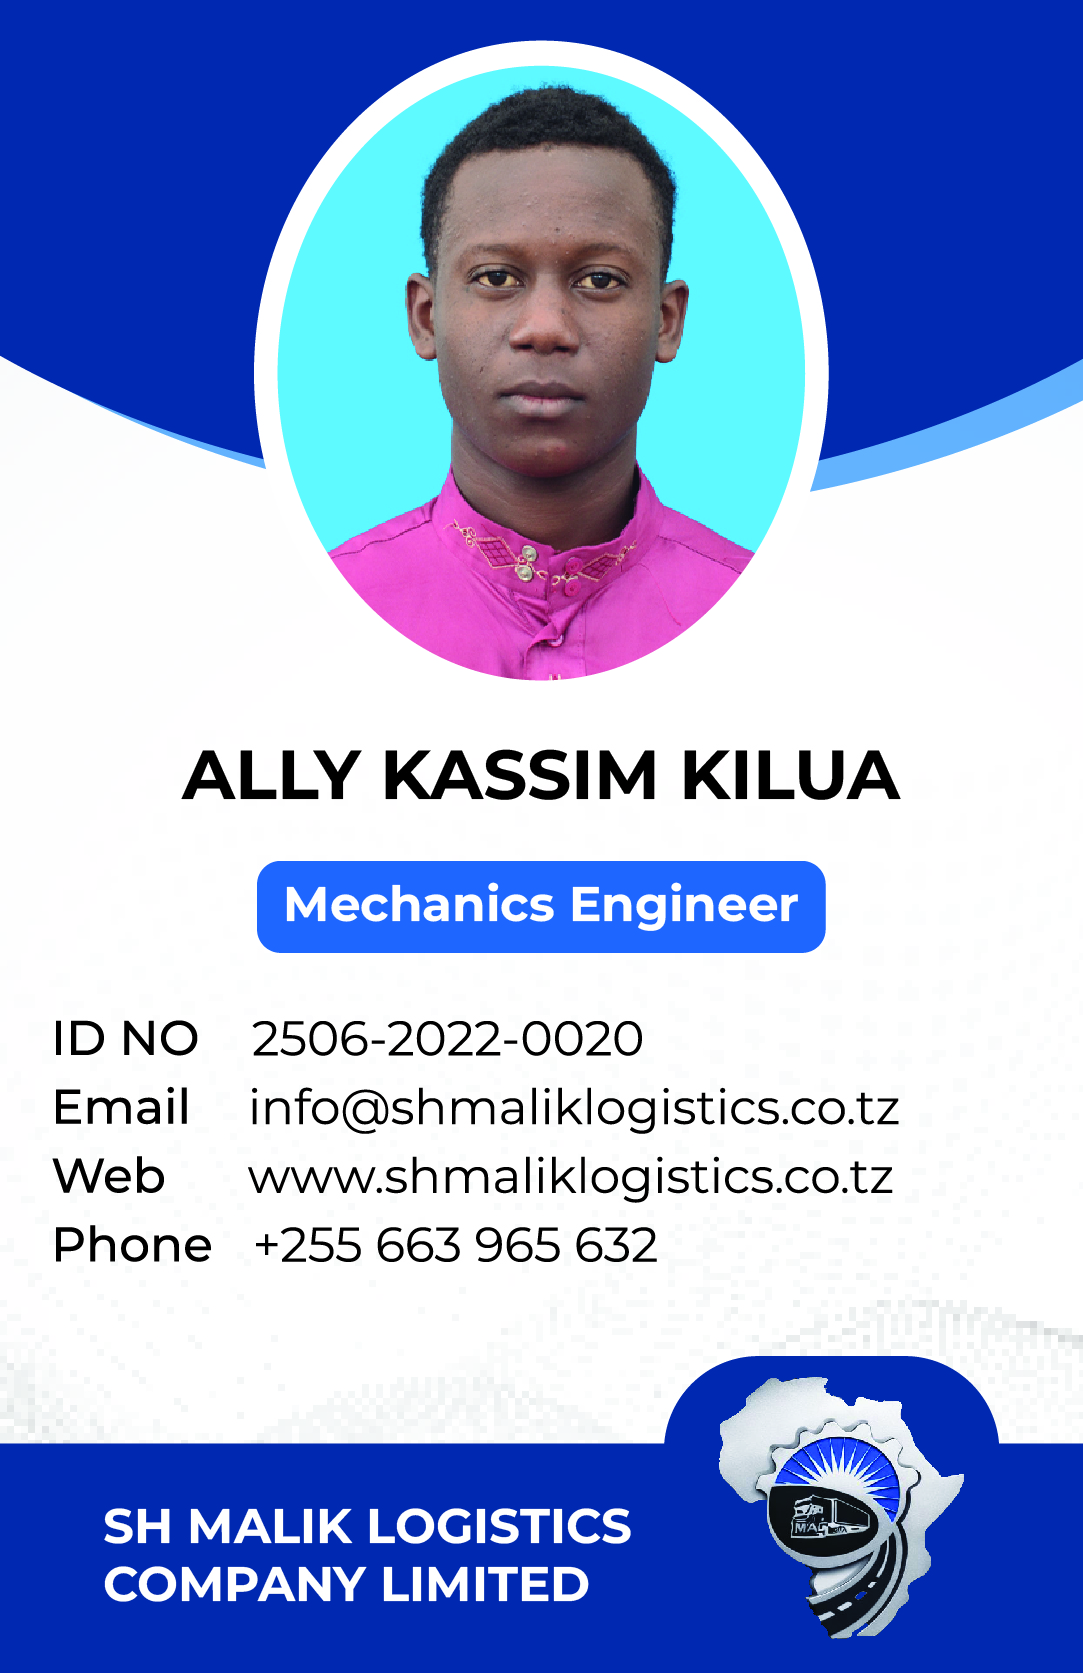
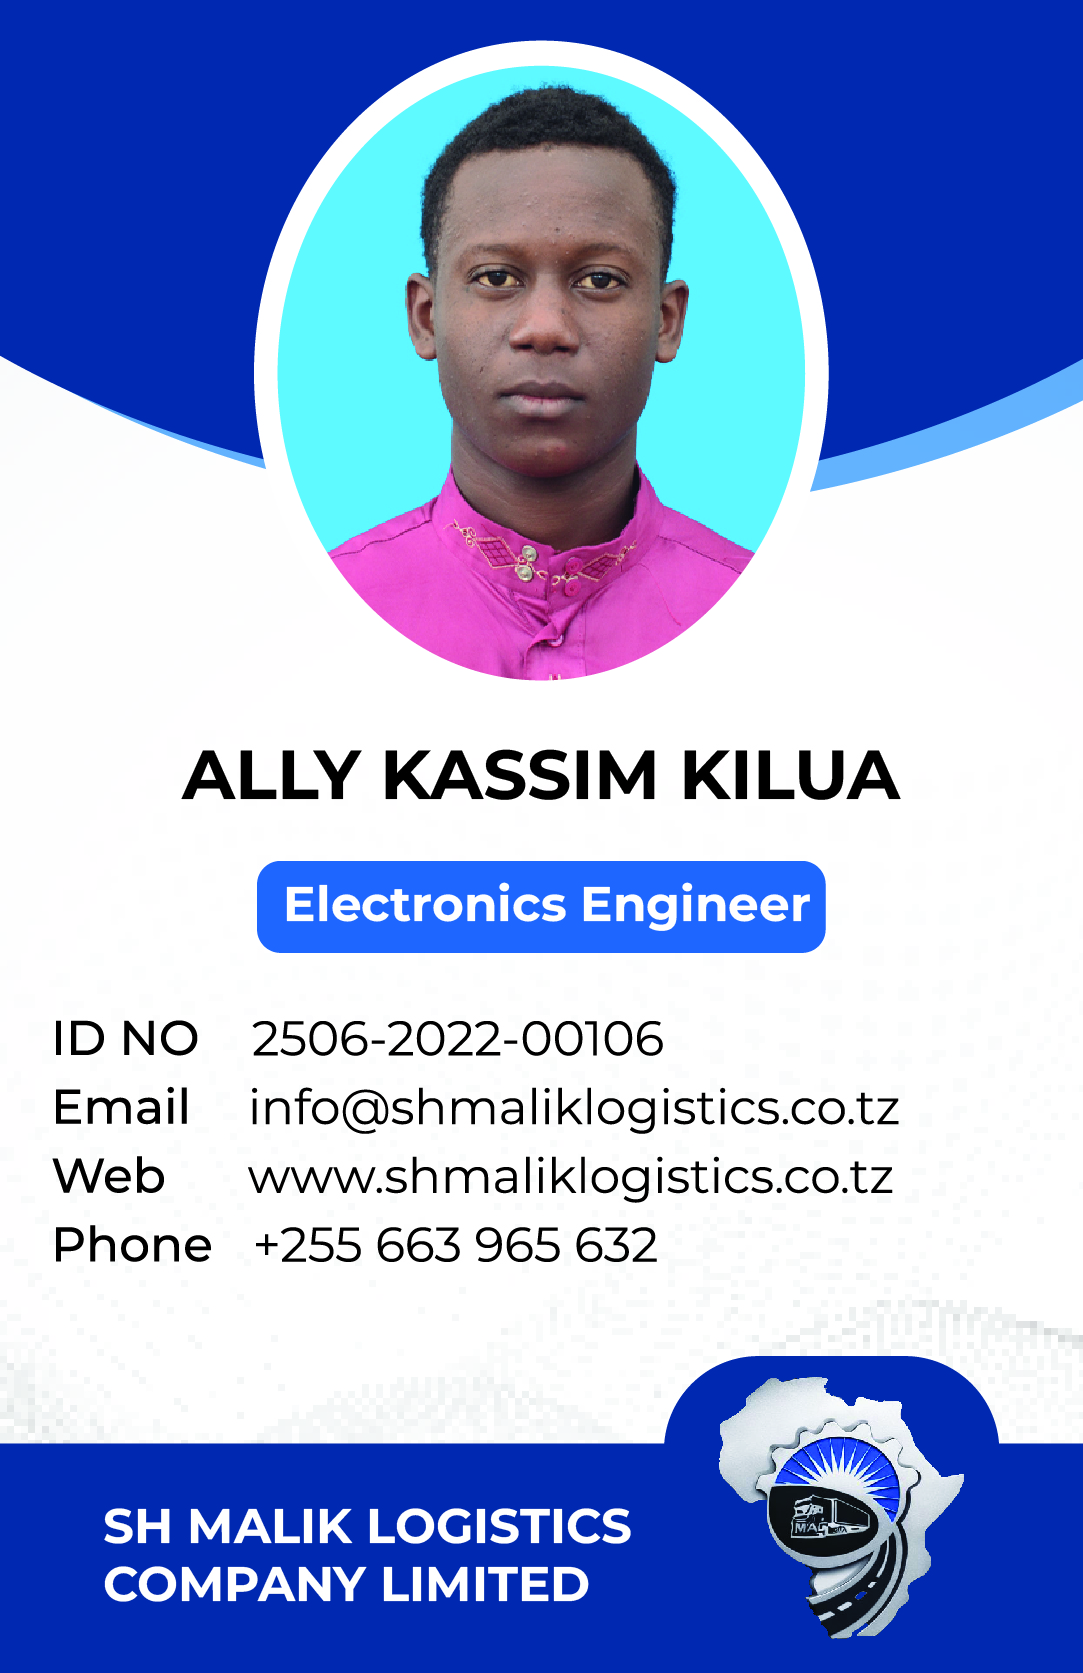
Add 8 new team members to /team NFC card page
New staff: Hemedi Abdi Hemedi (Mechanics), Ismail Isihaka Saidi (Electronics),
Mustafa Jumanne Lilongia (Welder), Batton Clement Chamhene (Driver),
Faustine Boniface Daniel (Driver), Mwalimu Jaka Shabani (Driver),
Ngalama Anthony Tenga (Driver), Salimu Amoury Juma (Driver).
Also updates Ally Kassim Kilua photo.

Changed region(s): [[0.2742, 0.5284, 0.7618, 0.5595], [0.5485, 0.5906, 0.6094, 0.6527]]

diff --git a/app/Http/Controllers/NfcController.php b/app/Http/Controllers/NfcController.php
@@ -138,6 +138,36 @@ class NfcController extends Controller
         ],
 
         // ── Engineering ──────────────────────────────────────────────────────
+        'hemedi-abdi-hemedi' => [
+            'name'      => 'Hemedi Abdi Hemedi',
+            'roles'     => ['Mechanics Engineer'],
+            'email'     => self::INFO,
+            'phone'     => '+255747492233',
+            'idNo'      => '2506-2022-0014',
+            'slug'      => 'hemedi-abdi-hemedi',
+            'image'     => '/nfc_cards/hemedi-abdi-hemedi.jpeg',
+            'backImage' => self::BACK,
+        ],
+        'ismail-isihaka-saidi' => [
+            'name'      => 'Ismail Isihaka Saidi',
+            'roles'     => ['Electronics Engineer'],
+            'email'     => self::INFO,
+            'phone'     => '+255695440201',
+            'idNo'      => '2506-2022-0111',
+            'slug'      => 'ismail-isihaka-saidi',
+            'image'     => '/nfc_cards/ismail-isihaka-saidi.jpeg',
+            'backImage' => self::BACK,
+        ],
+        'mustafa-jumanne-lilongia' => [
+            'name'      => 'Mustafa Jumanne Lilongia',
+            'roles'     => ['Welder'],
+            'email'     => self::INFO,
+            'phone'     => '+255747492233',
+            'idNo'      => '2506-2022-0015',
+            'slug'      => 'mustafa-jumanne-lilongia',
+            'image'     => '/nfc_cards/mustafa-jumanne-lilongia.jpeg',
+            'backImage' => self::BACK,
+        ],
         'ramadhani-salimu-ramadhani' => [
             'name'      => 'Ramadhani Salimu Ramadhani',
             'roles'     => ['Electronics Engineer'],
@@ -728,6 +758,56 @@ class NfcController extends Controller
             'idNo'      => '2506-2022-0092',
             'slug'      => 'shukuru-amri-kibwana',
             'image'     => '/nfc_cards/shukuru-amri-kibwana.jpeg',
+            'backImage' => self::BACK,
+        ],
+        'batton-clement-chamhene' => [
+            'name'      => 'Batton Clement Chamhene',
+            'roles'     => ['Driver'],
+            'email'     => self::INFO,
+            'phone'     => '+255684616548',
+            'idNo'      => '2506-2022-0062',
+            'slug'      => 'batton-clement-chamhene',
+            'image'     => '/nfc_cards/batton-clement-chamhene.jpeg',
+            'backImage' => self::BACK,
+        ],
+        'faustine-boniface-daniel' => [
+            'name'      => 'Faustine Boniface Daniel',
+            'roles'     => ['Driver'],
+            'email'     => self::INFO,
+            'phone'     => '+255746234144',
+            'idNo'      => '2506-2022-0094',
+            'slug'      => 'faustine-boniface-daniel',
+            'image'     => '/nfc_cards/faustine-boniface-daniel.jpeg',
+            'backImage' => self::BACK,
+        ],
+        'mwalimu-jaka-shabani' => [
+            'name'      => 'Mwalimu Jaka Shabani',
+            'roles'     => ['Driver'],
+            'email'     => self::INFO,
+            'phone'     => '+255653365751',
+            'idNo'      => '2506-2022-0099',
+            'slug'      => 'mwalimu-jaka-shabani',
+            'image'     => '/nfc_cards/mwalimu-jaka-shabani.jpeg',
+            'backImage' => self::BACK,
+        ],
+        'ngalama-anthony-tenga' => [
+            'name'      => 'Ngalama Anthony Tenga',
+            'roles'     => ['Driver'],
+            'email'     => self::INFO,
+            'phone'     => '+255689911143',
+            'idNo'      => '2506-2022-0043',
+            'slug'      => 'ngalama-anthony-tenga',
+            'image'     => '/nfc_cards/ngalama-anthony-tenga.jpeg',
+            'backImage' => self::BACK,
+        ],
+        'salimu-amoury-juma' => [
+            'name'      => 'Salimu Amoury Juma',
+            'roles'     => ['Driver'],
+            'email'     => self::INFO,
+            'phone'     => '+255777280118',
+            'idNo'      => '2506-2022-0095',
+            'slug'      => 'salimu-amoury-juma',
+            'image'     => '/nfc_cards/salimu-amoury-juma.jpeg',
             'backImage' => self::BACK,
         ],
     ];
